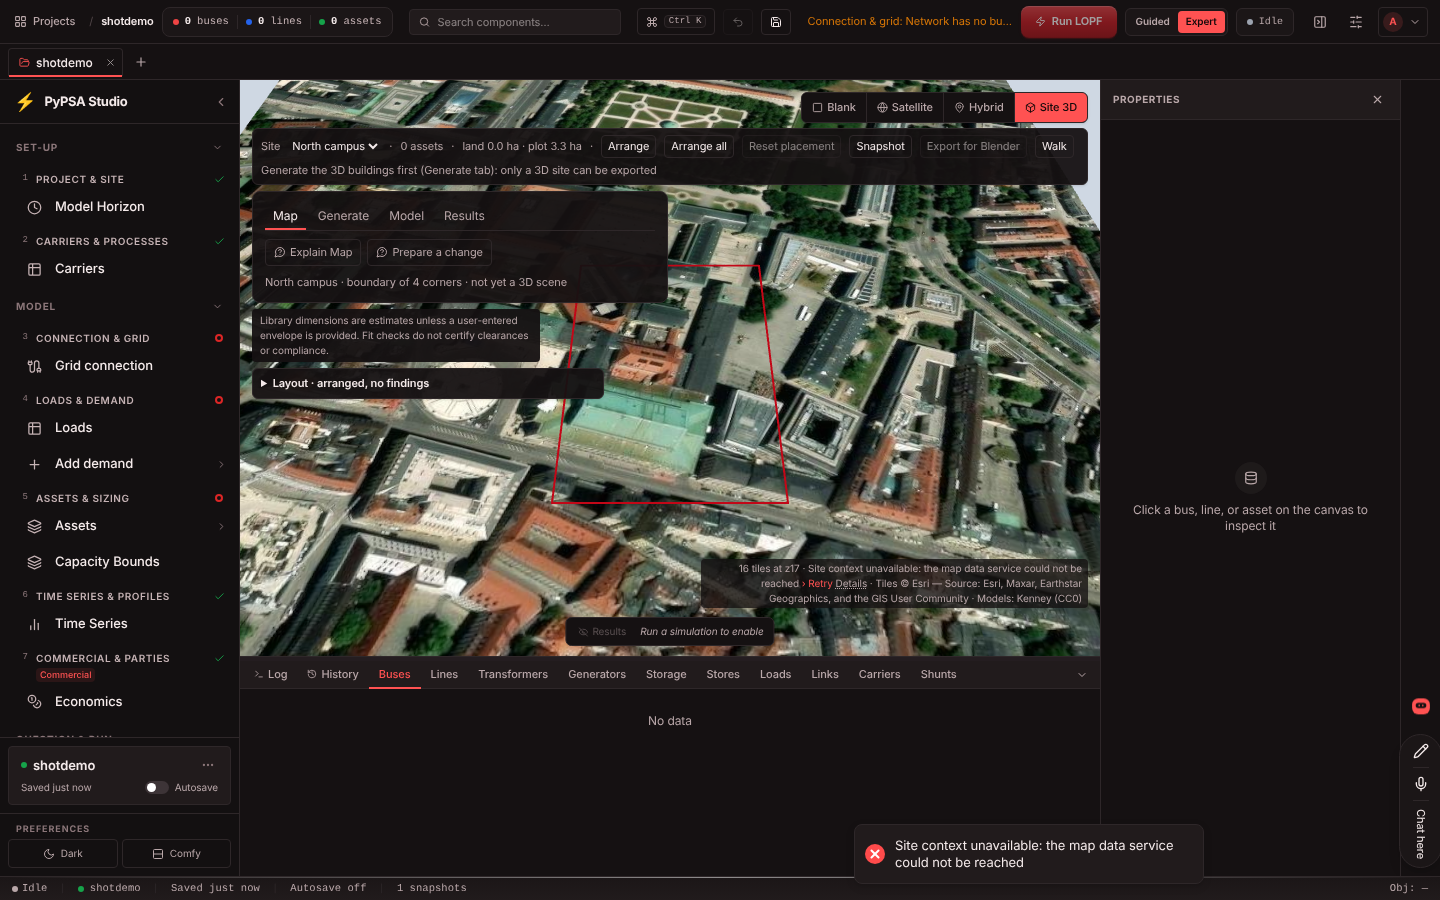
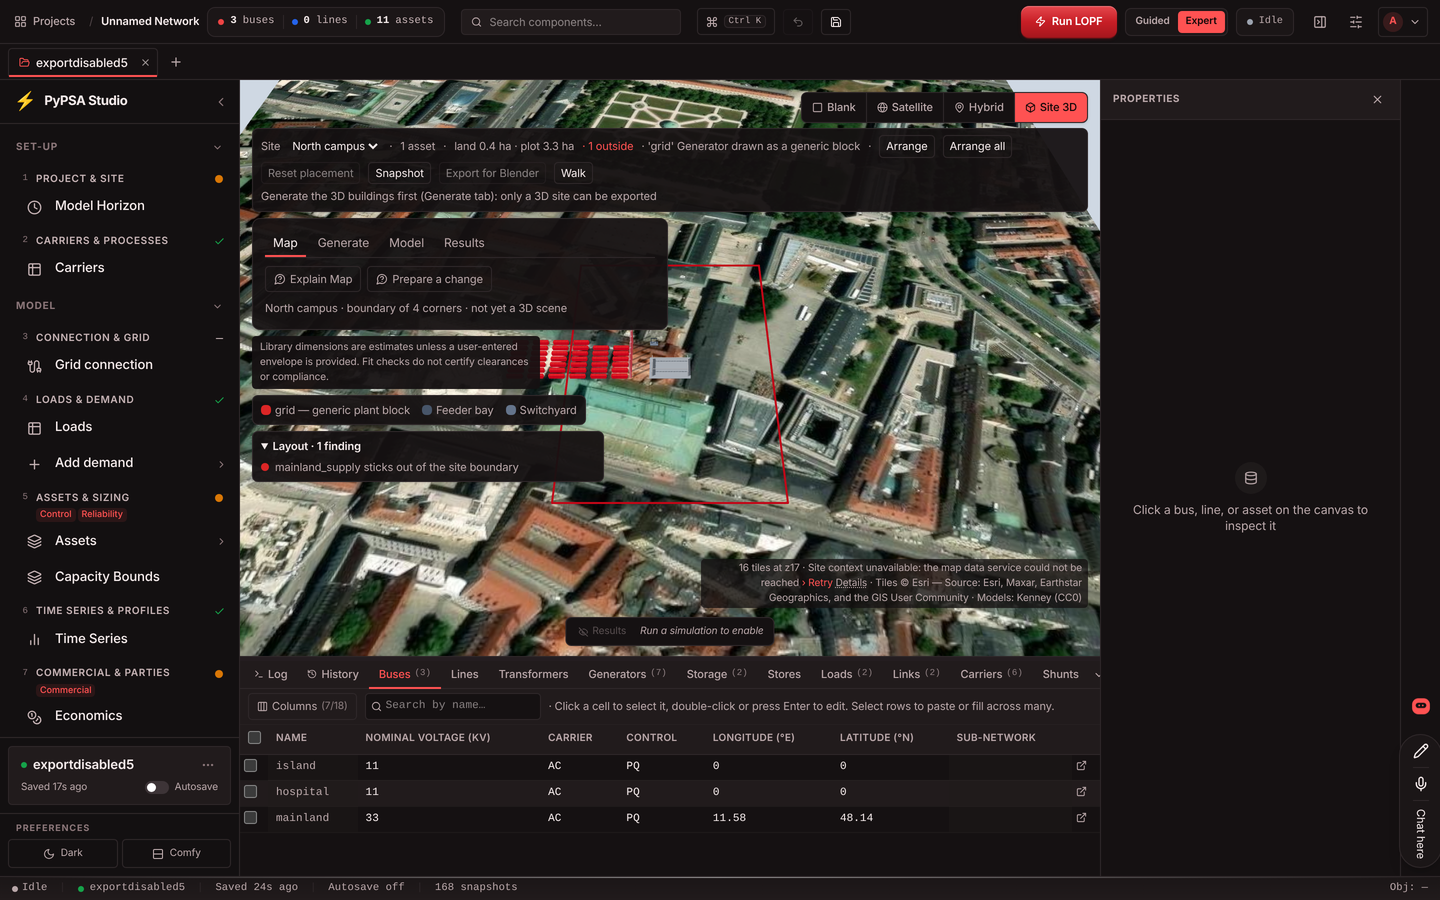
site-scene 05: retake the disabled export shots without the map-data toast; ruff format
Claude-Session: https://claude.ai/code/session_01G7qCumrwLCJ1ijUtt7bKxY

diff --git a/pypsa-gui/backend/tests/test_site_scene_export.py b/pypsa-gui/backend/tests/test_site_scene_export.py
@@ -65,7 +65,9 @@ def read_glb(data: bytes) -> tuple[dict, bytes]:
     assert jtype == b"JSON" and jlen % 4 == 0
     raw = data[20 : 20 + jlen]
     end = raw.rindex(b"}") + 1
-    assert set(raw[end:]) <= {0x20} and jlen - end < 4, "JSON is padded with spaces only"
+    assert set(raw[end:]) <= {0x20} and jlen - end < 4, (
+        "JSON is padded with spaces only"
+    )
     doc = json.loads(raw.decode("utf-8"))
     rest = data[20 + jlen :]
     blen, btype = struct.unpack_from("<I4s", rest, 0)
@@ -82,9 +84,7 @@ def read_glb(data: bytes) -> tuple[dict, bytes]:
         covered[view["byteOffset"] : view["byteOffset"] + view["byteLength"]] = (
             b"\x01" * view["byteLength"]
         )
-    assert all(b == 0 for b, c in zip(binary, covered) if not c), (
-        "BIN padding is 0x00"
-    )
+    assert all(b == 0 for b, c in zip(binary, covered) if not c), "BIN padding is 0x00"
     for i, acc in enumerate(doc["accessors"]):
         fmt, size = _COMPONENTS[acc["componentType"]]
         view = doc["bufferViews"][acc["bufferView"]]
@@ -363,19 +363,34 @@ def test_concave_l_shaped_building_keeps_its_area_and_volume():
             {"footprint": [[0, 0], [10, 0], [10, 10], [0, 10]], "height_m": "5"},
             "invalid_height",
         ),
-        ({"footprint": [[0, 0], [10, "0"], [10, 10]], "height_m": 5}, "invalid_footprint"),
-        ({"footprint": [[0, 0], [True, 0], [10, 10]], "height_m": 5}, "invalid_footprint"),
+        (
+            {"footprint": [[0, 0], [10, "0"], [10, 10]], "height_m": 5},
+            "invalid_footprint",
+        ),
+        (
+            {"footprint": [[0, 0], [True, 0], [10, 10]], "height_m": 5},
+            "invalid_footprint",
+        ),
         # Vertex shape: a non-list point, a 3-element point, a non-list footprint.
         ({"footprint": [[0, 0], "10,0", [10, 10]], "height_m": 5}, "invalid_footprint"),
-        ({"footprint": [[0, 0], [10, 0, 1], [10, 10]], "height_m": 5}, "invalid_footprint"),
+        (
+            {"footprint": [[0, 0], [10, 0, 1], [10, 10]], "height_m": 5},
+            "invalid_footprint",
+        ),
         ({"footprint": {"0": [0, 0]}, "height_m": 5}, "invalid_footprint"),
         # F3: over MAX_FOOTPRINT_VERTICES is too detailed, not invalid.
         (
             {
                 "footprint": [
                     [
-                        10 * math.cos(2 * math.pi * k / (native.MAX_FOOTPRINT_VERTICES + 1)),
-                        10 * math.sin(2 * math.pi * k / (native.MAX_FOOTPRINT_VERTICES + 1)),
+                        10
+                        * math.cos(
+                            2 * math.pi * k / (native.MAX_FOOTPRINT_VERTICES + 1)
+                        ),
+                        10
+                        * math.sin(
+                            2 * math.pi * k / (native.MAX_FOOTPRINT_VERTICES + 1)
+                        ),
                     ]
                     for k in range(native.MAX_FOOTPRINT_VERTICES + 1)
                 ],
@@ -894,7 +909,10 @@ def test_index_width_switches_to_uint32_only_past_65535_vertices():
     # 422 is out of reach of real features (<= 2 * 256 vertices); pinned on the writer directly.
     snap = fixture.reference_snapshot()
     for n, ctype in ((0x10000, 5123), (0x10001, 5125)):
-        f = {**_feature("big", 1), "positions": [(float(k), 0.0, 0.0) for k in range(n)]}
+        f = {
+            **_feature("big", 1),
+            "positions": [(float(k), 0.0, 0.0) for k in range(n)],
+        }
         f["indices"] = [0, 1, n - 1]
         glb, _ = export._glb(snap, [f], {})
         doc, _binary = read_glb(glb)
@@ -923,7 +941,11 @@ def test_building_at_the_height_cap_is_exported():
         (None, {"width_m": 4.0, "depth_m": 0.0, "height_m": 2.5}, "invalid_footprint"),
         (None, {"width_m": -4.0, "depth_m": 2.0, "height_m": 2.5}, "invalid_footprint"),
         (None, {"width_m": 4.0, "depth_m": -2.0, "height_m": 2.5}, "invalid_footprint"),
-        (None, {"width_m": float("nan"), "depth_m": 2.0, "height_m": 2.5}, "invalid_footprint"),
+        (
+            None,
+            {"width_m": float("nan"), "depth_m": 2.0, "height_m": 2.5},
+            "invalid_footprint",
+        ),
         (None, {"width_m": 4.0, "depth_m": "2", "height_m": 2.5}, "invalid_footprint"),
         (None, {"width_m": 4.0, "depth_m": 2.0, "height_m": 0.0}, "invalid_height"),
         (
@@ -985,7 +1007,9 @@ def test_geometry_sha256_pins_positions_and_indices():
         chunks = []
         for acc in (prim["attributes"]["POSITION"], prim["indices"]):
             view = doc["bufferViews"][doc["accessors"][acc]["bufferView"]]
-            chunks.append(binary[view["byteOffset"] : view["byteOffset"] + view["byteLength"]])
+            chunks.append(
+                binary[view["byteOffset"] : view["byteOffset"] + view["byteLength"]]
+            )
         assert f["geometry_sha256"] == hashlib.sha256(b"".join(chunks)).hexdigest()
     taller = fixture.reference_snapshot()
     taller["buildings"][0]["height_m"] += 1
@@ -1046,7 +1070,11 @@ def test_missing_or_null_optional_keys_export_as_empty():
 def test_a_negative_zero_writes_the_same_bytes_as_zero():
     def glb_at(x):
         snap = fixture.reference_snapshot()
-        snap["site"]["placements"]["Generator:pv_roof"] = {"x": x, "y": 0.0, "heading": 0.0}
+        snap["site"]["placements"]["Generator:pv_roof"] = {
+            "x": x,
+            "y": 0.0,
+            "heading": 0.0,
+        }
         return export.build(snap)[0]
 
     glb = glb_at(-0.0)
@@ -1076,7 +1104,9 @@ def test_a_count_limit_is_an_http_413(client, geo, monkeypatch):
     )
 
 
-def test_a_viewer_member_without_the_lock_can_export(client, geo, _auth_db, seeded_identity):
+def test_a_viewer_member_without_the_lock_can_export(
+    client, geo, _auth_db, seeded_identity
+):
     # F8: the contract row says viewer; a plain member of the project's org,
     # assigned to the project and holding no edit lock, gets the download.
     import uuid
@@ -1102,14 +1132,27 @@ def test_a_viewer_member_without_the_lock_can_export(client, geo, _auth_db, seed
         )
         db.add(user)
         db.flush()
-        db.add(OrgMembership(id=uuid.uuid4(), user_id=user.id,
-                             org_id=seeded_identity["org_id"], role="member"))
-        project = db.query(Project).filter_by(
-            org_id=seeded_identity["org_id"], name="geo"
-        ).one()
-        db.add(ProjectMembership(project_id=project.id, user_id=user.id,
-                                 assigned_by=project.created_by,
-                                 assigned_at=datetime.now(tz=UTC)))
+        db.add(
+            OrgMembership(
+                id=uuid.uuid4(),
+                user_id=user.id,
+                org_id=seeded_identity["org_id"],
+                role="member",
+            )
+        )
+        project = (
+            db.query(Project)
+            .filter_by(org_id=seeded_identity["org_id"], name="geo")
+            .one()
+        )
+        db.add(
+            ProjectMembership(
+                project_id=project.id,
+                user_id=user.id,
+                assigned_by=project.created_by,
+                assigned_at=datetime.now(tz=UTC),
+            )
+        )
         db.commit()
         uid = user.id
     with TestClient(main.app) as viewer:

diff --git a/pypsa-gui/backend/services/site_scene/export.py b/pypsa-gui/backend/services/site_scene/export.py
@@ -175,7 +175,11 @@ def _ring(raw: Any) -> list[tuple[float, float]]:
         return native.check_footprint(ring, "export")
     except SceneError as e:
         # Over MAX_FOOTPRINT_VERTICES is only too detailed, not invalid (GK F3).
-        reason = "footprint_too_detailed" if e.kind == "resource_limit" else "invalid_footprint"
+        reason = (
+            "footprint_too_detailed"
+            if e.kind == "resource_limit"
+            else "invalid_footprint"
+        )
         raise _Omit(reason) from None
 
 

diff --git a/.scratch/site-scene-generation/sc-04-shots/README.md b/.scratch/site-scene-generation/sc-04-shots/README.md
@@ -15,4 +15,4 @@ The button sits after Snapshot in the Site control strip, in Guided and Expert.
 | Error toast (413 resource_limit mocked by a Playwright route) | guided-error.png | expert-error.png |
 
 The "Site context unavailable" toast and caption are the sandbox's blocked map-data service, unrelated to this change.
-The disabled shots predate the switch to the server's `export_scene` verdict; the reason text is the same string, now sent by the server.
+The disabled shots were retaken after the switch to the server's `export_scene` verdict, in a fresh project (`exportdisabled5`, Island Microgrid template, Site saved but not adopted): the reason under the strip is the server's string. The map-data toast is hidden before the shot; the footer caption still names the sandbox's blocked map-data service.
